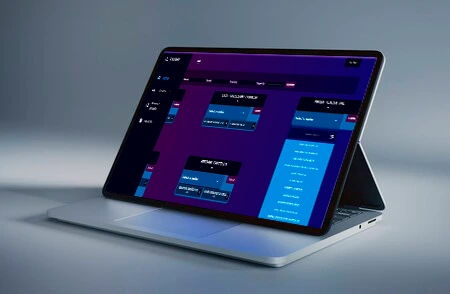
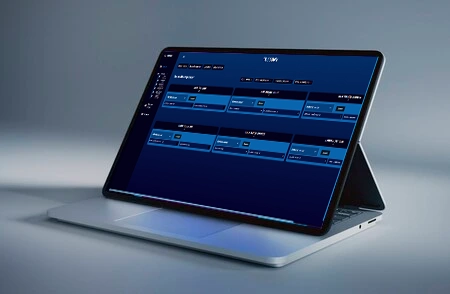
videofix

Changed region(s): [[0.2489, 0.1531, 0.84, 0.7959]]

diff --git a/docs/script.js b/docs/script.js
@@ -315,7 +315,7 @@ const raksusGalleries = {
     "Images/Nescafe/JourneyMap/Usuario 2.webp",
     "Images/Nescafe/JourneyMap/Usuario 3.webp",
     "Images/Nescafe/JourneyMap/Journey_Map.webp"
-    ],
+  ],
     'Nescafe_Arquitecure': [
     "Images/Nescafe/Arquitectura/Arquitectura_Conductor1.webp",
     "Images/Nescafe/Arquitectura/Arquitectura_Conductor2.webp",
@@ -324,17 +324,17 @@ const raksusGalleries = {
     "Images/Nescafe/Arquitectura/Arquitectura_Usuario2.webp",
     "Images/Nescafe/Arquitectura/Arquitectura_Usuario3.webp",
     "Images/Nescafe/AQDI.webp"
-    ],
+  ],
     'Nescafe_Branding':[
     "Images/Nescafe/Branding/NESCAFE Bag.webp",
     "Images/Nescafe/Branding/NESCAFE Jacket.webp",
-    ],
+  ],
     'Nescafe_CandyMockups1':[
     "Images/Nescafe/Nescafe_Candy/MockupsNCC_V1.webp",
     "Images/Nescafe/Nescafe_Candy/MockupsNCC_V2.webp",
     "Images/Nescafe/Nescafe_Candy/MockupsNOC_V1.webp",
     "Images/Nescafe/Nescafe_Candy/MockupsNOC_V2.webp",
-    ],
+  ],
     'Nescafe_CandyMockups2':[
     "Images/Nescafe/Nescafe_Candy/Cuadrados/M1.webp",
     "Images/Nescafe/Nescafe_Candy/Cuadrados/M2.webp",
@@ -342,7 +342,7 @@ const raksusGalleries = {
     "Images/Nescafe/Nescafe_Candy/Redondos/M1.webp",
     "Images/Nescafe/Nescafe_Candy/Redondos/M2.webp",
     "Images/Nescafe/Nescafe_Candy/Redondos/M3.webp",
-    ],
+  ],
     'TERESUELVO_ARQ':[
         "Images/Teresuelvo/Arquitectura/Usuario.webp",
         "Images/Teresuelvo/Arquitectura/Lider de comunidad.webp",
@@ -350,18 +350,18 @@ const raksusGalleries = {
         "Images/Teresuelvo/Arquitectura/Diagrama1.webp",
         "Images/Teresuelvo/Arquitectura/Diagrama2.webp",
         "Images/Teresuelvo/Arquitectura/Diagrama3.webp",
-    ],
+  ],
     'TERESUELVO_JOURNEY':[
         "Images/Teresuelvo/Journey/Journey_Map1.webp",
         "Images/Teresuelvo/Journey/Journey_Map2.webp",
         "Images/Teresuelvo/Journey/Journey_Map3.webp",
-    ],
+  ],
     'TERESUELVO_BRANDING':[
         "Images/Teresuelvo/Mockups/Mockup1.webp",
         "Images/Teresuelvo/Mockups/Mockup4.webp",
         "Images/Teresuelvo/Mockups/Mockup2.webp",
         "Images/Teresuelvo/Mockups/Branding3.webp",
-    ],
+  ],
     'TERESUELVO_LANDINGPAGE':[
         "Images/Teresuelvo/Landing/Eng/0.webp",
         "Images/Teresuelvo/Landing/Eng/1.webp",
@@ -377,7 +377,21 @@ const raksusGalleries = {
         "Images/Teresuelvo/Landing/Spa/4.webp",
         "Images/Teresuelvo/Landing/Spa/5.webp",
         "Images/Teresuelvo/Landing/Spa/6.webp",
+    ],
+    'SMARSHEETCASESPA':[
+        "Images/smartsheet/case of study/SPA/1pag.webp",
+        "Images/smartsheet/case of study/SPA/2pag.webp",
+        "Images/smartsheet/case of study/SPA/3pag.webp",
+        "Images/smartsheet/case of study/SPA/4pag.webp",
+        "Images/smartsheet/case of study/SPA/5pag.webp",
       ],
+      'SMARSHEETCASEENG':[
+        "Images/smartsheet/case of study/ENG/Pag 1.webp",
+        "Images/smartsheet/case of study/ENG/Pag 2.webp",
+        "Images/smartsheet/case of study/ENG/Pag 3.webp",
+        "Images/smartsheet/case of study/ENG/Pag 4.webp",
+        "Images/smartsheet/case of study/ENG/Pag 5.webp",
+      ]
 };
 
 // --- VARIABLES DE ESTADO ---

diff --git a/docs/index.html b/docs/index.html
@@ -136,14 +136,14 @@
                     <h3><span>Here is</span> A Resume Presentation of the Project <strong>Click play to watch</strong></h3>
                     <div class="video_format">
                         <video controls poster="Images/Teresuelvo/Video_Teresuelvo/Poster_TeResuelvo.webp" width="auto" preload="metadata">
-                        <source src="Images/Teresuelvo/Video_Teresuelvo/Teresuelvo_Eng.mp4" type="video/mp4">
+                        <source src="Images/Teresuelvo/Video_Teresuelvo/TeResuelvo_CaseEng.mp4" type="video/mp4">
                         </video>
                     </div>
 
                     <h3><span>Esta es</span> una presentacion resumida del proyecto. <strong>Click play para ver</strong></h3>
                     <div class="video_format">
                         <video controls poster="Images/Teresuelvo/Video_Teresuelvo/Poster_TeResuelvo.webp" width="auto" preload="metadata">
-                        <source src="Images/Teresuelvo/Video_Teresuelvo/Teresuelvo_Esp.mp4" type="video/mp4">
+                        <source src="Images/Teresuelvo/Video_Teresuelvo/Teresuelvo_CaseEsp.mp4" type="video/mp4">
                         </video>
                     </div>
                 </div>
@@ -298,8 +298,12 @@
 
             <div class="over" id="overlay3">
                 <div class="content-picture">
-                    <img src="Images/smartsheet/Mockup_2.webp" alt="MockupTuesday" loading="lazy">
-                    <img src="Images/smartsheet/Mockup_1.webp" alt="MockupFetcher" loading="lazy">
+                    <img src="Images/smartsheet/case of study/SPA/Portada.webp" loading="lazy"
+                    alt="Raksus - Landing Page" class="thumbnail"
+                    onclick="openCarouselModal(0, 'SMARSHEETCASESPA')">
+                    <img src="Images/smartsheet/case of study/ENG/Headline.webp" loading="lazy"
+                    alt="Raksus - Landing Page" class="thumbnail"
+                    onclick="openCarouselModal(0, 'SMARSHEETCASEENG')">
                 </div>
                 
                 <div class="overy">
